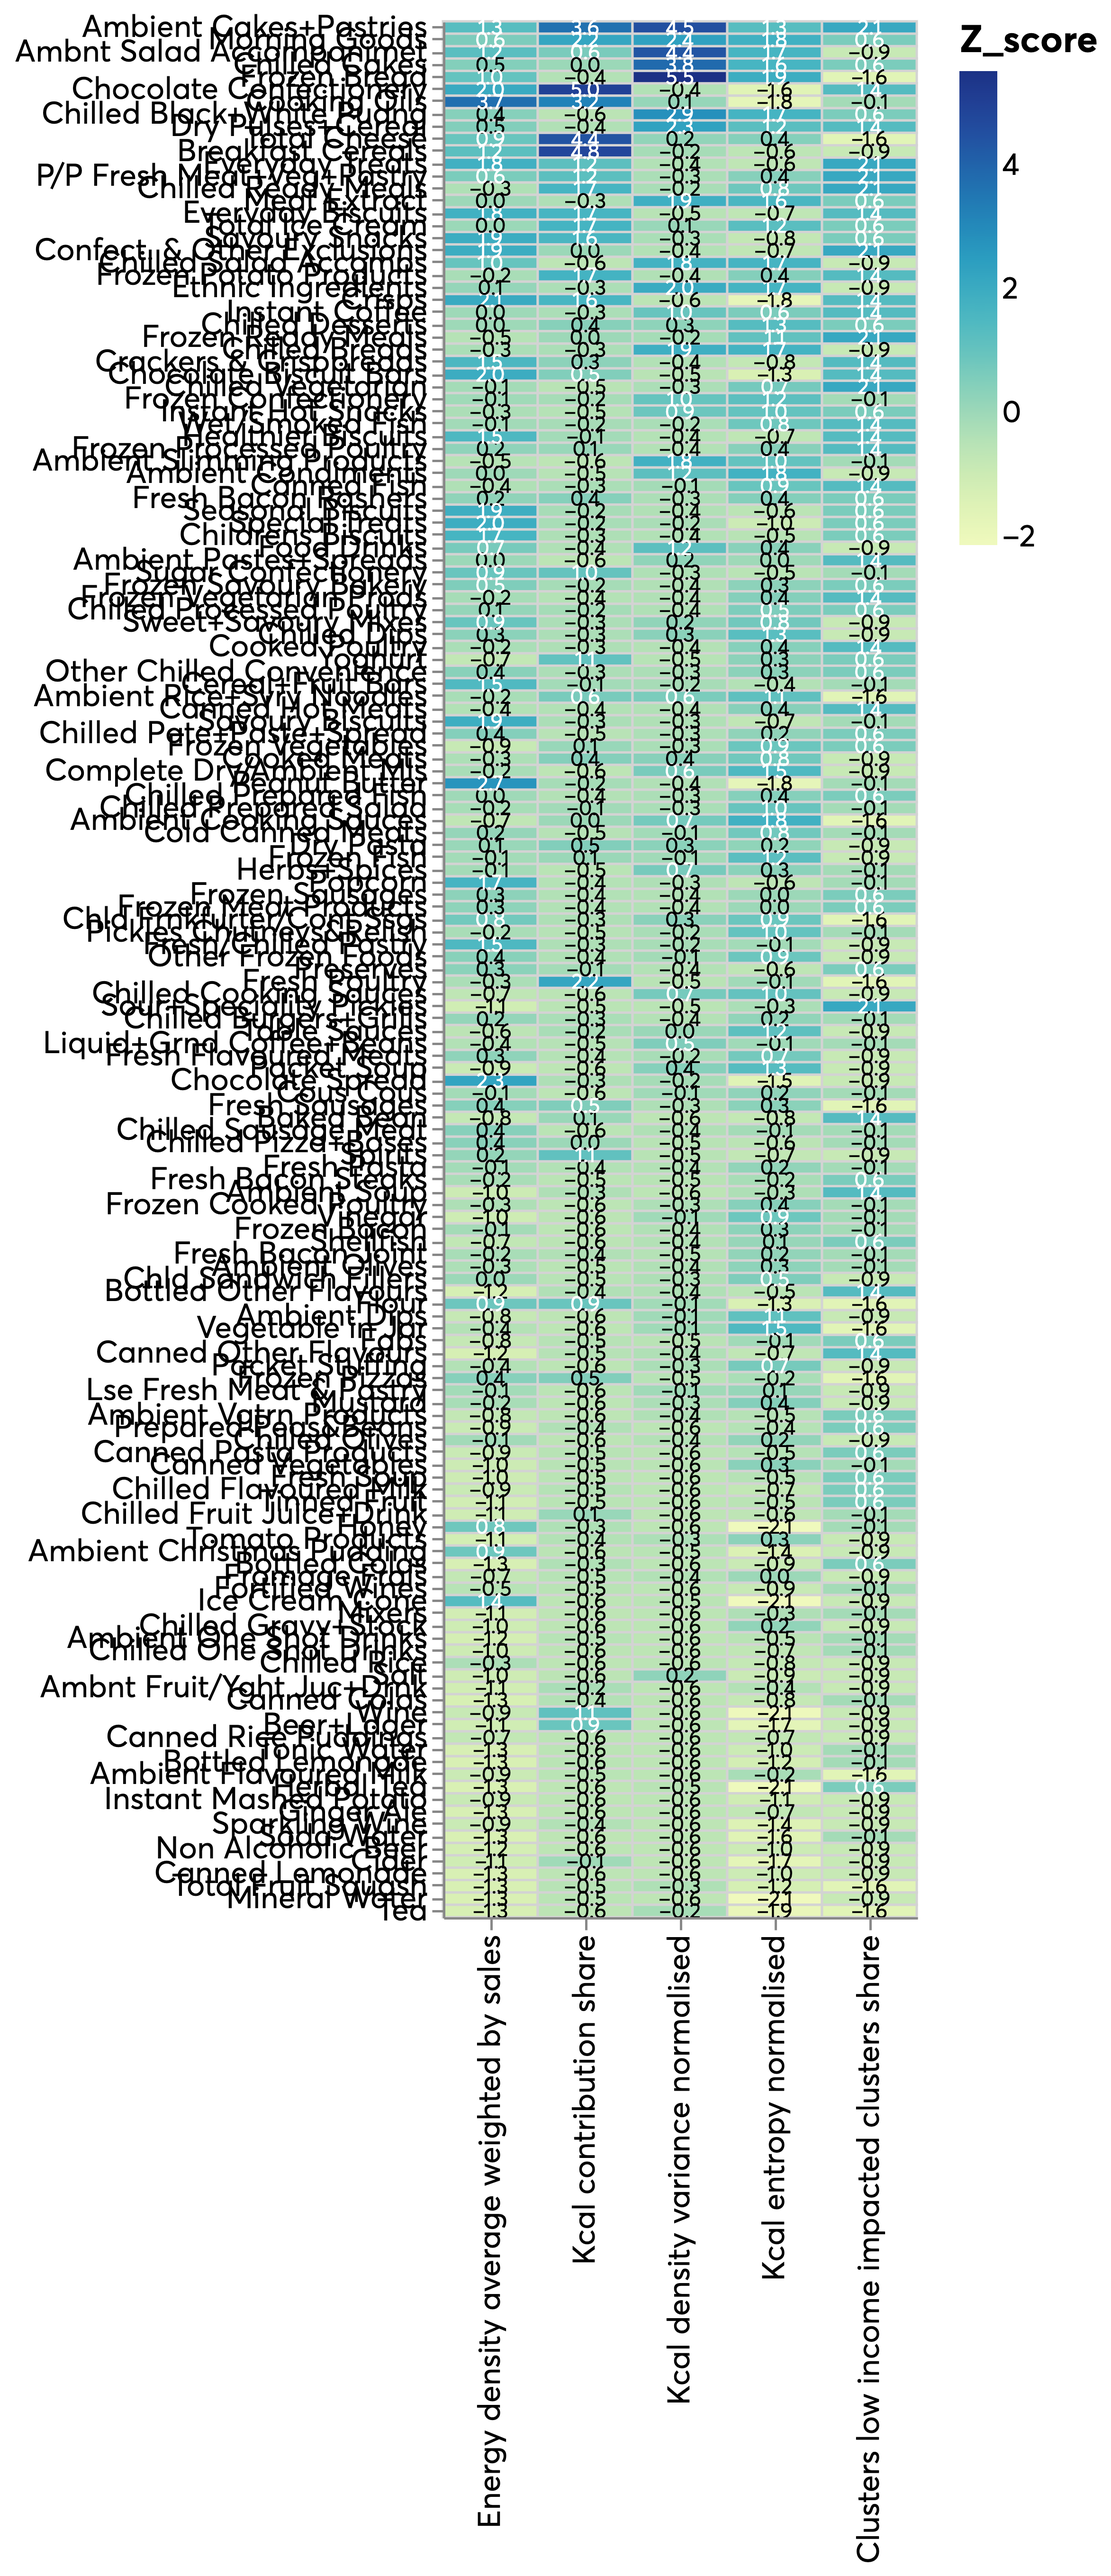
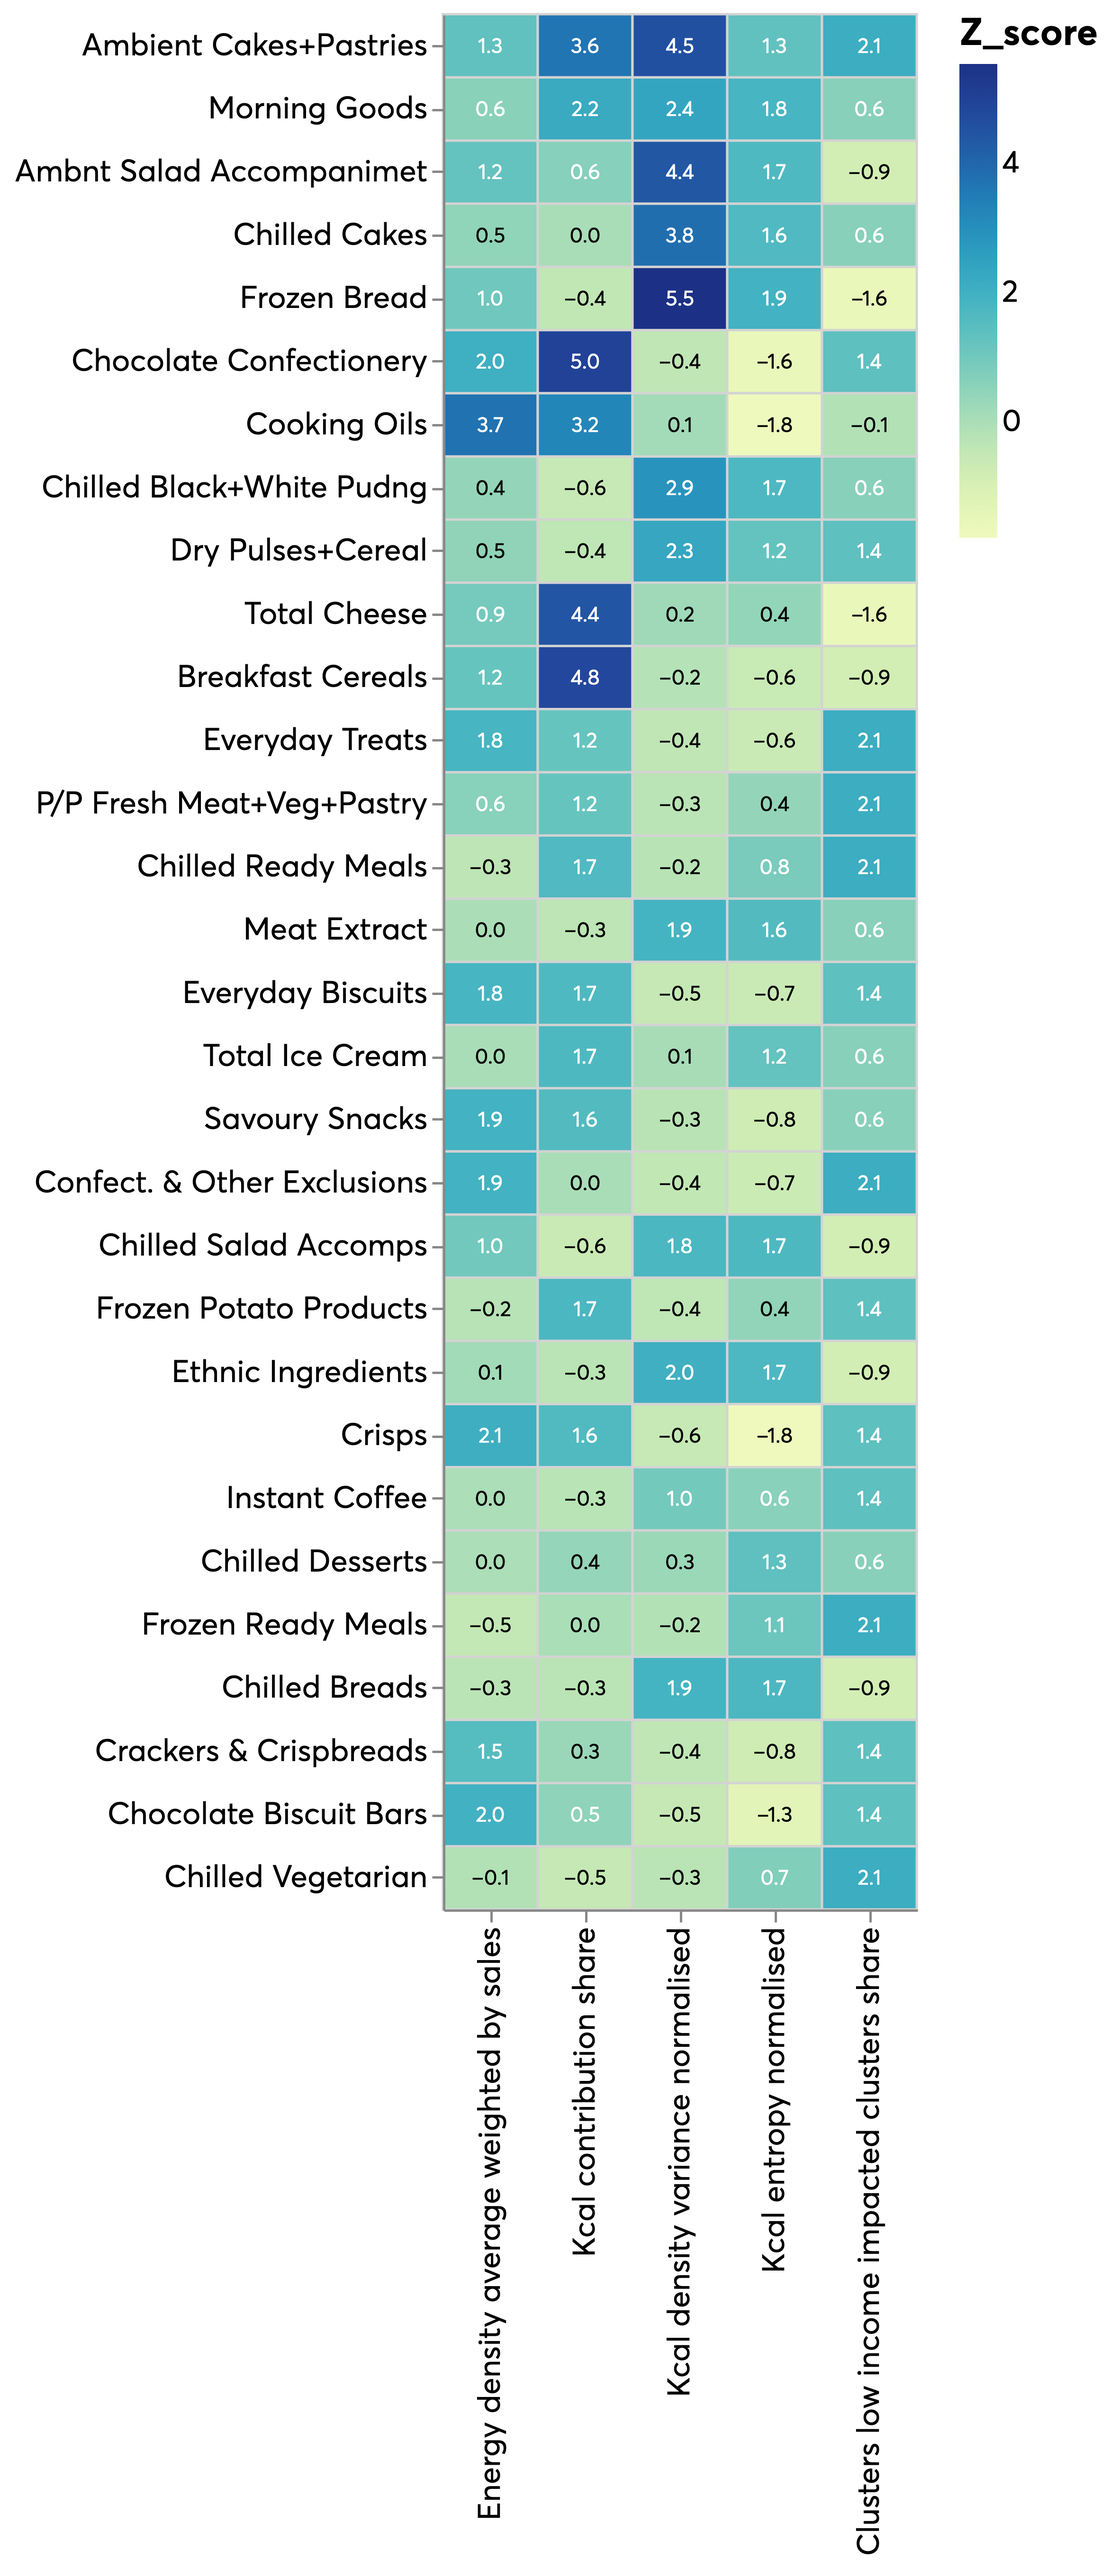
updating decision table analysis to reduce categories in plots

diff --git a/ahl_food_reformulation/analysis/decision_table_analysis/make_table_analysis.py b/ahl_food_reformulation/analysis/decision_table_analysis/make_table_analysis.py
@@ -433,9 +433,21 @@ if __name__ == "__main__":
         .assign(category=lambda df: df["clean_label"].map(var_category_lookup))
     )
 
+    # Reduce number to top 30 for plot
+    reduced_cats = list(
+        report_table_clean_long.groupby(["rst_4_market"])["z_score"]
+        .mean()
+        .sort_values(ascending=False)
+        .head(30)
+        .index
+    )
+    avg_table_plots = report_table_clean_long[
+        report_table_clean_long["rst_4_market"].isin(reduced_cats)
+    ]
+
     indicator_heatmap = (
         pipe(
-            report_table_clean_long,
+            avg_table_plots,
             partial(relabel_names, columns=["clean_label"], clean_dict=plotting_names),
             partial(
                 make_indicator_heatmap,
@@ -453,7 +465,7 @@ if __name__ == "__main__":
 
     indicator_bubble_chart = (
         pipe(
-            report_table_clean_long,
+            avg_table_plots,
             partial(relabel_names, columns=["clean_label"], clean_dict=plotting_names),
             partial(
                 make_indicator_bubblechart,
@@ -487,8 +499,20 @@ if __name__ == "__main__":
         make_sequential_table,
     )
 
+    # Take top 30 products
+    seq_plot_table = seq_table[
+        seq_table[broad_cat_str].isin(
+            (
+                seq_table.query(f"category=='Inclusion'")
+                .sort_values("z_score_filtered", ascending=False)[broad_cat_str]
+                .head(30)
+                .tolist()
+            )
+        )
+    ].copy()
+
     save_altair(
-        configure_plots(make_selection_chart(seq_table)),
+        configure_plots(make_selection_chart(seq_plot_table)),
         "indicator_sequential_decision",
         driver=webdr,
     )
